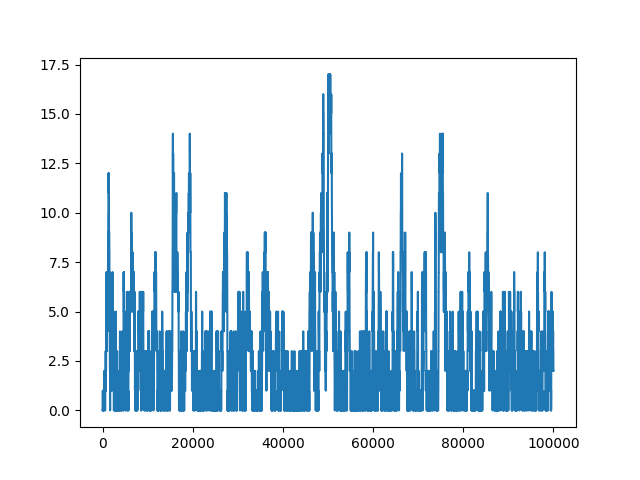
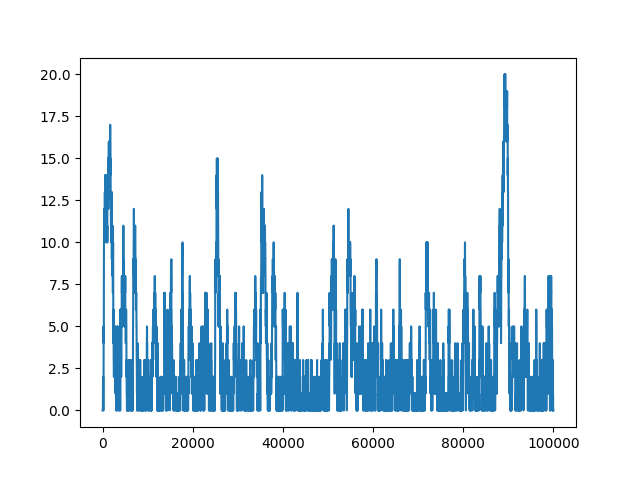
Change p values

diff --git a/TP-2/Ejercicio2.py b/TP-2/Ejercicio2.py
@@ -11,16 +11,19 @@ def simular(ms):
 	estados = []
 	cantidadEnCola = 0
 	cantidadVecesInactiva = 0
+	PROBABILIDAD_NUEVA_SOLICITUD = p*(1-q)
+	PROBABILIDAD_DE_TERMINAR = q*(1-p)
 	# tiempo = 0
 	for tiempo in range(ms):
-		if (rn.random() <= p):
+		if (rn.random() <= PROBABILIDAD_NUEVA_SOLICITUD):
 			cantidadEnCola += 1
-		if (rn.random() <= q and cantidadEnCola > 0):
+		if (rn.random() <= PROBABILIDAD_DE_TERMINAR and cantidadEnCola > 0):
 			cantidadEnCola -=1
 		tiempos.append(tiempo)
 		estados.append(cantidadEnCola)
 		if (cantidadEnCola == 0):
 			cantidadVecesInactiva+=1
+
 	return tiempos, estados, cantidadVecesInactiva
 
 
